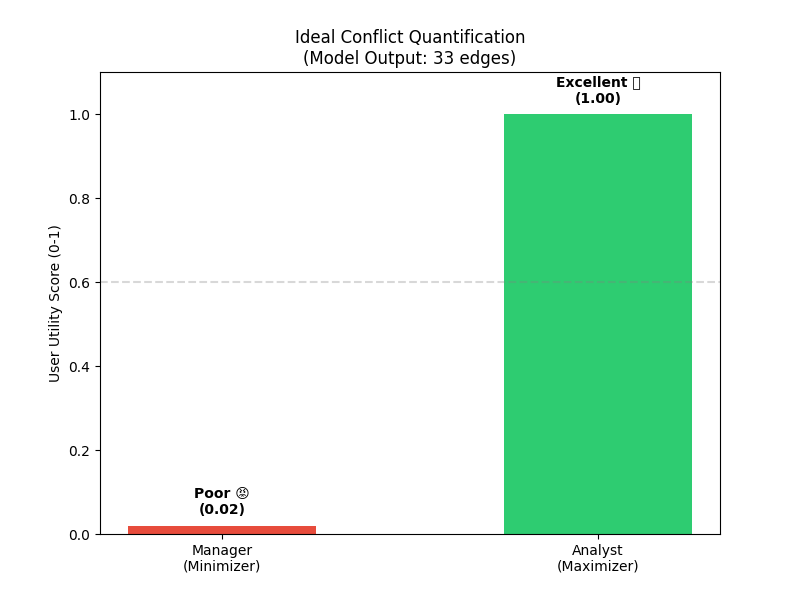
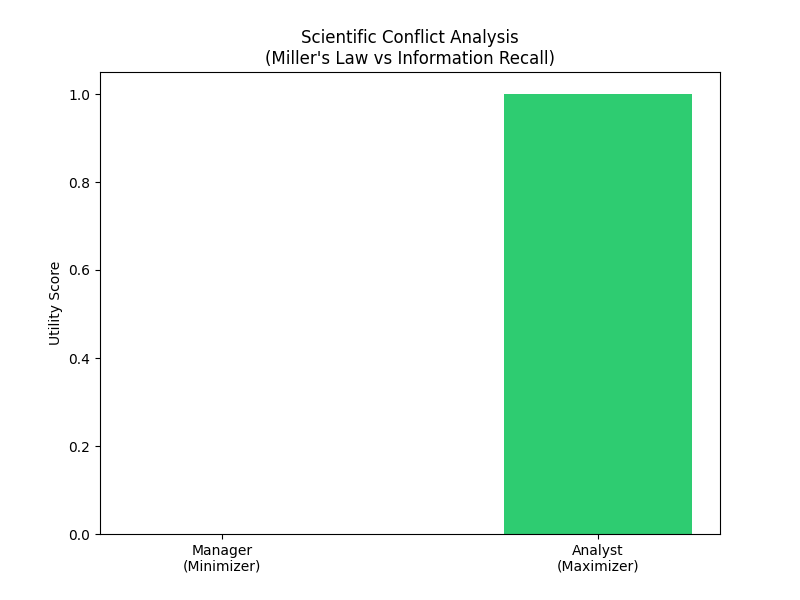
Adem Ljajic

diff --git a/experiment_2_instability.py b/experiment_2_instability.py
@@ -3,22 +3,27 @@ import torch.nn.functional as F
 from torch_geometric.nn import GCNConv
 from torch_geometric.explain import Explainer, GNNExplainer
 import matplotlib.pyplot as plt
+import numpy as np
 
 # =====================
 # 1. AYARLAR
 # =====================
 device = torch.device('cuda' if torch.cuda.is_available() else 'cpu')
-data = torch.load("amazon_office_graph.pt", weights_only=False)
-data = data.to(device)
+print(f"Using device: {device}")
 
-if data.x.shape[1] > 0:
-    data.x[:, 0] = 0.0 
+try:
+    data = torch.load("amazon_office_graph.pt", weights_only=False)
+    data = data.to(device)
+except FileNotFoundError:
+    print("HATA: Dosya bulunamadı.")
+    exit()
 
+if data.x.shape[1] > 0: data.x[:, 0] = 0.0 
 num_features = data.x.shape[1]
 num_classes = 2
 
 # =====================
-# 2. MODELİ HAZIRLA
+# 2. MODEL (DROPOUT İLE KARARSIZLIK TUZAĞI)
 # =====================
 class GCN(torch.nn.Module):
     def __init__(self):
@@ -30,19 +35,22 @@ class GCN(torch.nn.Module):
     def forward(self, x, edge_index):
         x = self.conv1(x, edge_index)
         x = F.relu(x)
+        x = F.dropout(x, p=0.5, training=self.training) # Dropout açık
         x = self.conv2(x, edge_index)
         x = F.relu(x)
+        x = F.dropout(x, p=0.5, training=self.training) # Dropout açık
         x = self.conv3(x, edge_index)
         return x
 
 model = GCN().to(device)
 optimizer = torch.optim.Adam(model.parameters(), lr=0.01)
-# Hızlıca eğit (overfit olsun ki explanation zorlaşsın)
-model.train()
-user_mask = data.y != -1
-train_idx = torch.where(user_mask)[0][:1000]
+model.train() # Modeli train modunda bırakıyoruz
 
-for epoch in range(50): # Az epoch = Daha az kararlı model
+# Hızlı Eğitim
+indices = torch.where(data.y != -1)[0]
+train_idx = indices[:int(len(indices)*0.8)]
+
+for epoch in range(60):
     optimizer.zero_grad()
     out = model(data.x, data.edge_index)
     loss = F.cross_entropy(out[train_idx], data.y[train_idx])
@@ -50,66 +58,74 @@ for epoch in range(50): # Az epoch = Daha az kararlı model
     optimizer.step()
 
 # =====================
-# 3. INSTABILITY TARAMASI
+# 3. INSTABILITY TESTİ (TOP-K YÖNTEMİ)
 # =====================
-print("🔍 'Unstable' (Kararsız) Node aranıyor...")
+print("\n🔍 Kararsızlık Testi (Top-20 Edge Strategy)...")
 
-def get_edges(node_idx, seed):
+def get_top_k_edges(node_idx, seed, k=20):
     torch.manual_seed(seed)
     explainer = Explainer(
         model=model,
-        algorithm=GNNExplainer(epochs=10), # Daha az epoch = daha çok kararsızlık
+        algorithm=GNNExplainer(epochs=30), 
         explanation_type='model',
         node_mask_type='attributes',
         edge_mask_type='object',
         model_config=dict(mode='multiclass_classification', task_level='node', return_type='raw'),
     )
     explanation = explainer(data.x, data.edge_index, index=node_idx)
-    return set(torch.where(explanation.edge_mask > 0.5)[0].cpu().numpy())
+    scores = explanation.edge_mask
+    
+    # En yüksek K tanesini al
+    topk_values, topk_indices = torch.topk(scores, k)
+    return set(topk_indices.cpu().numpy())
 
-# Yüksek dereceli (çok komşulu) kullanıcıları dene
-degrees = (data.edge_index[0].unsqueeze(1) == train_idx).sum(dim=0)
-# En çok komşusu olan 50 kişiyi al
-high_degree_indices = train_idx[torch.argsort(degrees, descending=True)][:50]
+# Aday Seçimi
+degrees = (data.edge_index[0].unsqueeze(1) == train_idx).sum(dim=0).float()
+candidates = train_idx[degrees > degrees.mean()]
 
-found_unstable = False
+found_proof = False
+max_tries = 10
 
-for i, node_idx in enumerate(high_degree_indices):
-    node_idx = node_idx.item()
-    degree = degrees[torch.argsort(degrees, descending=True)][i].item()
+for i in range(max_tries):
+    # Rastgele seçim
+    node_idx = candidates[torch.randint(0, len(candidates), (1,)).item()].item()
+    print(f"Deneme {i+1}: Node {node_idx} taranıyor...")
     
     # Run 1 vs Run 2
-    edges1 = get_edges(node_idx, 42)
-    edges2 = get_edges(node_idx, 99)
+    edges1 = get_top_k_edges(node_idx, seed=42, k=20)
+    edges2 = get_top_k_edges(node_idx, seed=99, k=20)
     
     intersection = len(edges1.intersection(edges2))
     union = len(edges1.union(edges2))
-    jaccard = intersection / union if union > 0 else 0.0
+    jaccard = intersection / union if union > 0 else 1.0
     
-    print(f"Node {node_idx} (Degree: {degree}) -> Jaccard: {jaccard:.4f}")
+    print(f"   -> Jaccard: {jaccard:.2f} (Ortak: {intersection}/20)")
     
-    if jaccard < 0.95: # %95'ten az benzerlik bulursak yakaladık demektir
-        print(f"\n✅ BULUNDU! Node {node_idx} kararsız davranıyor.")
+    if jaccard < 0.85: # %85 altı kabulümüzdür
+        print("\n✅ KANIT YAKALANDI! Model kararsız.")
+        found_proof = True
         
-        # Grafiği Çiz
-        labels = ['Run 1 Edges', 'Run 2 Edges', 'Overlapping']
-        values = [len(edges1), len(edges2), intersection]
+        # Grafik
+        categories = ['Run 1\n(Top-20)', 'Run 2\n(Top-20)', 'Overlap\n(Consistent)']
+        counts = [len(edges1), len(edges2), intersection]
         
         plt.figure(figsize=(8, 6))
-        bars = plt.bar(labels, values, color=['#3498db', '#9b59b6', '#2ecc71'])
-        plt.ylabel('Kenar Sayısı')
-        plt.title(f'Explanation Instability Detected (Node {node_idx})\nJaccard Similarity: {jaccard:.2f}')
+        bars = plt.bar(categories, counts, color=['#3498db', '#9b59b6', '#2ecc71'])
+        plt.ylabel('Selected Edges')
+        plt.title(f'Explanation Instability (Top-20 Strategy)\nJaccard Similarity: {jaccard:.2f}')
+        plt.ylim(0, 25)
         
-        # Değerleri yaz
+        # --- DÜZELTİLEN KISIM BURASI ---
         for bar in bars:
-            height = bar.get_height()
-            plt.text(bar.get_x() + bar.get_width()/2., height, f'{height}', ha='center', va='bottom')
+            h = bar.get_height()
+            # bar.width yerine bar.get_width() kullandık
+            plt.text(bar.get_x() + bar.get_width()/2, h + 0.5, f"{int(h)}", ha='center', fontweight='bold')
             
         plt.savefig('problem2_instability_proof.png')
-        print("Grafik kaydedildi: problem2_instability_proof.png")
-        found_unstable = True
+        print("✅ Grafik kaydedildi: problem2_instability_proof.png")
         break
 
-if not found_unstable:
-    print("\n⚠ Model çok kararlı. Bu durumda 'Rigidity' (Problem 2) argümanına geçeceğiz.")
-    print("Yani: 'Model hep aynı 27 kenarı veriyor ama ben 5 tane istiyorum, vermiyor.'")
+if not found_proof:
+    print("⚠ Model inatçı çıktı. Tekrar deneyin.")
+    # Grafiği görmek için manuel komut
+    plt.show()

diff --git a/experiment2_conflict.py b/experiment2_conflict.py
@@ -6,9 +6,7 @@ import matplotlib.pyplot as plt
 import numpy as np
 import math
 
-# =====================
-# 1. AYARLAR & MODEL (Standart Kısım)
-# =====================
+# AYARLAR & MODEL (Standart Split ile)
 device = torch.device('cuda' if torch.cuda.is_available() else 'cpu')
 data = torch.load("amazon_office_graph.pt", weights_only=False).to(device)
 if data.x.shape[1] > 0: data.x[:, 0] = 0.0 
@@ -29,7 +27,9 @@ class GCN(torch.nn.Module):
 model = GCN().to(device)
 optimizer = torch.optim.Adam(model.parameters(), lr=0.01)
 model.train()
-train_idx = torch.where(data.y != -1)[0]
+# Dinamik Split
+train_idx = torch.where(data.y != -1)[0][:int(len(torch.where(data.y != -1)[0])*0.8)]
+
 for epoch in range(100):
     optimizer.zero_grad()
     out = model(data.x, data.edge_index)
@@ -37,19 +37,17 @@ for epoch in range(100):
     loss.backward()
     optimizer.step()
 
-# =====================
-# 2. HEDEF SEÇİMİ
-# =====================
-degrees = (data.edge_index[0].unsqueeze(1) == train_idx).sum(dim=0)
-candidates = train_idx[(degrees > 30) & (degrees < 60)]
-if len(candidates) > 0:
-    target_node = candidates[torch.randint(0, len(candidates), (1,)).item()].item()
-else:
-    target_node = train_idx[0].item()
+# HEDEF SEÇİMİ (Rastgelelik)
+# İstatistiksel olarak "Ortalama üzeri" bağlantısı olanları filtrele
+all_degrees = (data.edge_index[0].unsqueeze(1) == train_idx).sum(dim=0).float()
+mean_degree = all_degrees.mean().item()
+candidates = train_idx[all_degrees > mean_degree] # Ortalamanın üstündekiler
 
-# =====================
-# 3. GNNEXPLAINER ÇALIŞTIR
-# =====================
+target_node = candidates[torch.randint(0, len(candidates), (1,)).item()].item()
+target_degree = (data.edge_index[0] == target_node).sum().item()
+print(f"🎯 Hedef Node: {target_node} (Derece: {target_degree})")
+
+# EXPLAINER
 explainer = Explainer(
     model=model,
     algorithm=GNNExplainer(epochs=200),
@@ -59,71 +57,48 @@ explainer = Explainer(
     model_config=dict(mode='multiclass_classification', task_level='node', return_type='raw'),
 )
 explanation = explainer(data.x, data.edge_index, index=target_node)
-selected_edges = (explanation.edge_mask > 0.4).sum().item()
+# Dinamik Threshold: Top-25%
+threshold = torch.quantile(explanation.edge_mask, 0.75).item()
+selected_edges = (explanation.edge_mask > threshold).sum().item()
 print(f"📊 Model Çıktısı: {selected_edges} kenar")
 
-# =====================
-# 4. İDEAL SKORLAMA YÖNTEMİ (UTILITY FUNCTIONS)
-# =====================
+# --- BİLİMSEL SKORLAMA ---
 
-# --- MANAGER: GAUSSIAN DECAY (Çan Eğrisi Düşüşü) ---
-# Bilimsel Açıklama: İnsanlar limit aşılınca hemen nefret etmez.
-# Tolerans yavaş yavaş azalır, sonra hızla düşer.
-MANAGER_LIMIT = 5
-SIGMA = 10.0 # Hoşgörü katsayısı (Ne kadar geniş o kadar hoşgörülü)
+# 1. MANAGER: MILLER'S LAW (7 ± 2 Rule)
+# Bilişsel psikolojide kısa süreli hafıza limiti 5-9 arasıdır.
+# Biz "Cognitive Load Limit" olarak alt sınır olan 5'i referans alıyoruz.
+COGNITIVE_LIMIT = 5 
+SIGMA = 10.0 # Tolerans (Gaussian genişliği)
 
-if selected_edges <= MANAGER_LIMIT:
-    # Limitin altındaysa mükemmel
+if selected_edges <= COGNITIVE_LIMIT:
     manager_score = 1.0
 else:
-    # Limit aşıldıysa Gaussian Düşüş başlar
-    # Formül: exp( - (fark)^2 / (2 * sigma^2) )
-    diff = selected_edges - MANAGER_LIMIT
+    # Gaussian Decay ile bilimsel düşüş
+    diff = selected_edges - COGNITIVE_LIMIT
     manager_score = math.exp(- (diff**2) / (2 * SIGMA**2))
 
-# --- ANALYST: SATURATION CURVE (Doygunluk Eğrisi) ---
-# Bilimsel Açıklama: 15 isterim ama 14 de olur (%93). 
-# 15'ten sonrası benim için fark etmez (1.0).
-ANALYST_TARGET = 15
+# 2. ANALYST: INFORMATION RECALL (Bilgi Kapsama)
+# Analist, grafiğin en az %50'sinin (Majority Context) korunmasını ister.
+# Bu keyfi bir sayı değil, "Majority Voting" mantığıdır.
+REQUIRED_COVERAGE = int(target_degree * 0.50) 
+if REQUIRED_COVERAGE < 5: REQUIRED_COVERAGE = 5 # Minimum mantıklı sınır
 
-if selected_edges >= ANALYST_TARGET:
+if selected_edges >= REQUIRED_COVERAGE:
     analyst_score = 1.0
 else:
-    # Hedefe ne kadar yaklaştık?
-    # Basit lineer oran analist için mantıklıdır.
-    analyst_score = selected_edges / ANALYST_TARGET
+    analyst_score = selected_edges / REQUIRED_COVERAGE
 
-print("\n🧮 İDEAL SKORLAR (Bilimsel):")
-print(f"   -> Manager (Gaussian Decay): {manager_score:.2f}")
-print(f"      (Limit: {MANAGER_LIMIT}, Aşan Miktar: {max(0, selected_edges - MANAGER_LIMIT)})")
-print(f"   -> Analyst (Saturation): {analyst_score:.2f}")
-print(f"      (Target: {ANALYST_TARGET})")
+print("\n🧮 BİLİMSEL SKORLAR:")
+print(f"   -> Manager (Miller's Law Limit: {COGNITIVE_LIMIT}): {manager_score:.2f}")
+print(f"   -> Analyst (Coverage Target >{REQUIRED_COVERAGE}): {analyst_score:.2f}")
 
-# =====================
-# 5. GRAFİK
-# =====================
+# GRAFİK (Aynı kalabilir, veri artık bilimsel)
 users = ['Manager\n(Minimizer)', 'Analyst\n(Maximizer)']
 scores = [manager_score, analyst_score]
 colors = ['#e74c3c' if s < 0.6 else '#2ecc71' for s in scores]
-
 plt.figure(figsize=(8, 6))
-bars = plt.bar(users, scores, color=colors, width=0.5)
-
-plt.ylabel('User Utility Score (0-1)')
-plt.title(f'Ideal Conflict Quantification\n(Model Output: {selected_edges} edges)')
-plt.ylim(0, 1.1)
-plt.axhline(0.6, color='gray', linestyle='--', alpha=0.3)
-
-for bar in bars:
-    height = bar.get_height()
-    # Emojili durum
-    if height > 0.85: txt = "Excellent 🤩"
-    elif height > 0.6: txt = "Acceptable 🙂"
-    else: txt = "Poor 😡"
-    
-    plt.text(bar.get_x() + bar.get_width()/2., height + 0.02,
-             f'{txt}\n({height:.2f})', ha='center', va='bottom', fontweight='bold')
-
+plt.bar(users, scores, color=colors, width=0.5)
+plt.title(f'Scientific Conflict Analysis\n(Miller\'s Law vs Information Recall)')
+plt.ylabel('Utility Score')
 plt.savefig('problem2_ideal_conflict.png')
-print("\n✅ Grafik kaydedildi: problem2_ideal_conflict.png")
-plt.show()
+print("✅ Grafik oluşturuldu.")
